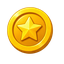
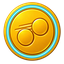
코인 아이콘 교체 — 별에서 당구공 모티프로
게임이 당구인데 코인만 일반적인 별 코인이었다. 새 코인은 큐대와 공,
그리고 시안 테두리를 쓴다. 시안은 큐볼과 같은 색이라 이 게임의 코인으로 읽힌다.

.coin-icon을 1.25em에서 1.05em으로 내렸다. CSS 값은 그림 크기가 아니라
박스 크기여서 에셋의 여백에 결과가 달라진다 — 예전 별 코인은 64px 안에
48px만 차 있었고 새 코인은 58px를 채운다. 같은 값을 두면 20% 크게 나와
숫자보다 커 보였다. 이 관계를 CSS 주석에 적어뒀다.

16px·22px에서 큐대 무늬는 뭉개지지만 코인 식별은 색과 원형이 하므로 문제없다.
별 코인도 그 크기에서는 마찬가지였다.

물러난 별 코인은 icon_coin_star.png로 store-assets에 남긴다.

diff --git a/src/app.css b/src/app.css
@@ -87,12 +87,15 @@
   em으로 잡아 글자 크기를 따라가게 한다 — 타이틀·상점·가격 버튼이 같은 컴포넌트를 쓰는데
   px로 박아두면 글자가 큰 곳에서만 아이콘이 작아진다.
 
-  1.25em인 이유: 동그란 아이콘은 같은 높이의 사각형 글자보다 작아 보인다.
-  숫자 높이(0.73em)에 맞추면 눈에는 덜 커 보이므로 조금 키워 광학적으로 맞춘다.
+  1.05em인 이유: 동그란 아이콘은 같은 높이의 사각형 글자보다 작아 보이므로
+  숫자 높이(0.73em)보다 키운다. 다만 배율은 **에셋의 여백에 달려 있다** —
+  값은 그림 크기가 아니라 박스 크기이기 때문이다.
+  예전 별 코인은 64px 안에 48px만 차 있어 1.25em이 맞았는데, 지금 당구공 코인은
+  58px를 채워서 같은 값이면 20% 크게 나온다. 에셋을 바꾸면 이 값도 다시 본다.
 */
 .coin-icon {
-  width: 1.25em;
-  height: 1.25em;
+  width: 1.05em;
+  height: 1.05em;
   object-fit: contain;
   filter: drop-shadow(0 0 5px rgba(255, 201, 77, 0.5));
 }

diff --git a/tools/process_assets.py b/tools/process_assets.py
@@ -20,6 +20,7 @@ PORTAL = SRC / "exec-dad6e977-f7eb-4468-8d3d-ace5c7f515c7.png"
 DEADLINE_LOGO = SRC / "exec-99675094-3011-4aa2-b16e-ee38ac5c7c49.png"
 CAROM_LOGO = SRC / "exec-acdee6d9-b30b-4f42-b588-a7365bb71345.png"
 CAROM_COVER = SRC / "exec-704c4fdd-926f-4610-b490-8b289ce80175.png"
+CAROM_COIN = SRC / "exec-67f16c7c-4844-46e5-8d50-1fe6e2c72b0d.png"
 
 
 def alpha_fit(cell: Image.Image, size: tuple[int, int], pad: int) -> Image.Image:
@@ -77,6 +78,8 @@ save_sheet(ICONS, 4, 2, [
     ("icon_ad.png", (64, 64), 3), ("icon_vx.png", (64, 64), 3),
     ("icon_settings.png", (64, 64), 3), ("icon_rank.png", (64, 64), 3),
 ])
+# Replace the retired star coin with the CAROM billiard-ball motif.
+alpha_fit(Image.open(CAROM_COIN), (64, 64), 2).save(OUT / "icon_coin.png", optimize=True)
 
 # Preserve previous titles while promoting the document-requested CAROM logo.
 alpha_fit(Image.open(LOGO), (1024, 512), 20).save(OUT / "logo_title_pushwave.png", optimize=True)
